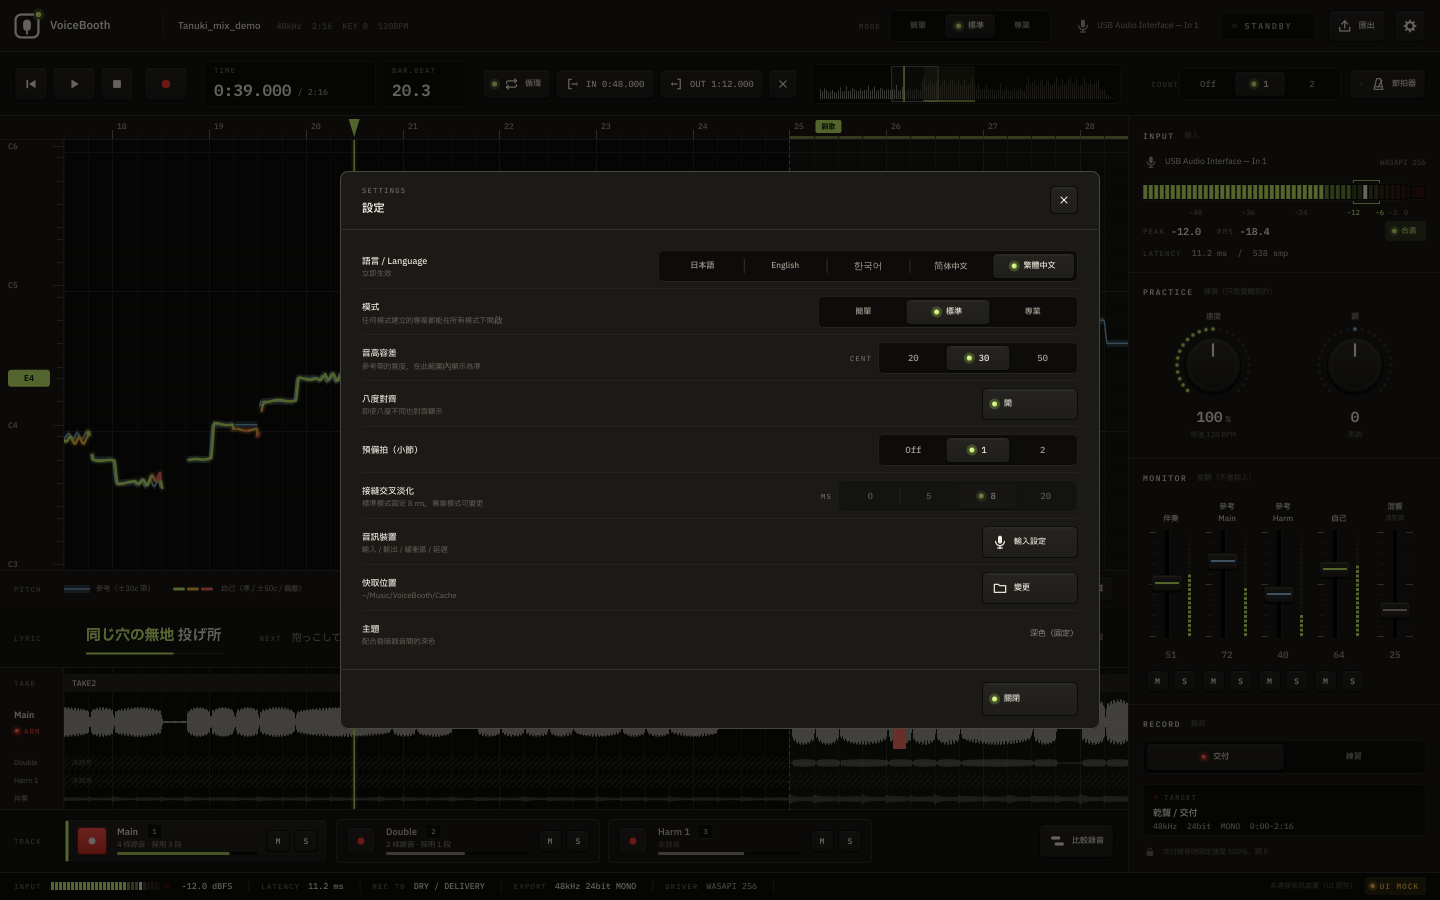
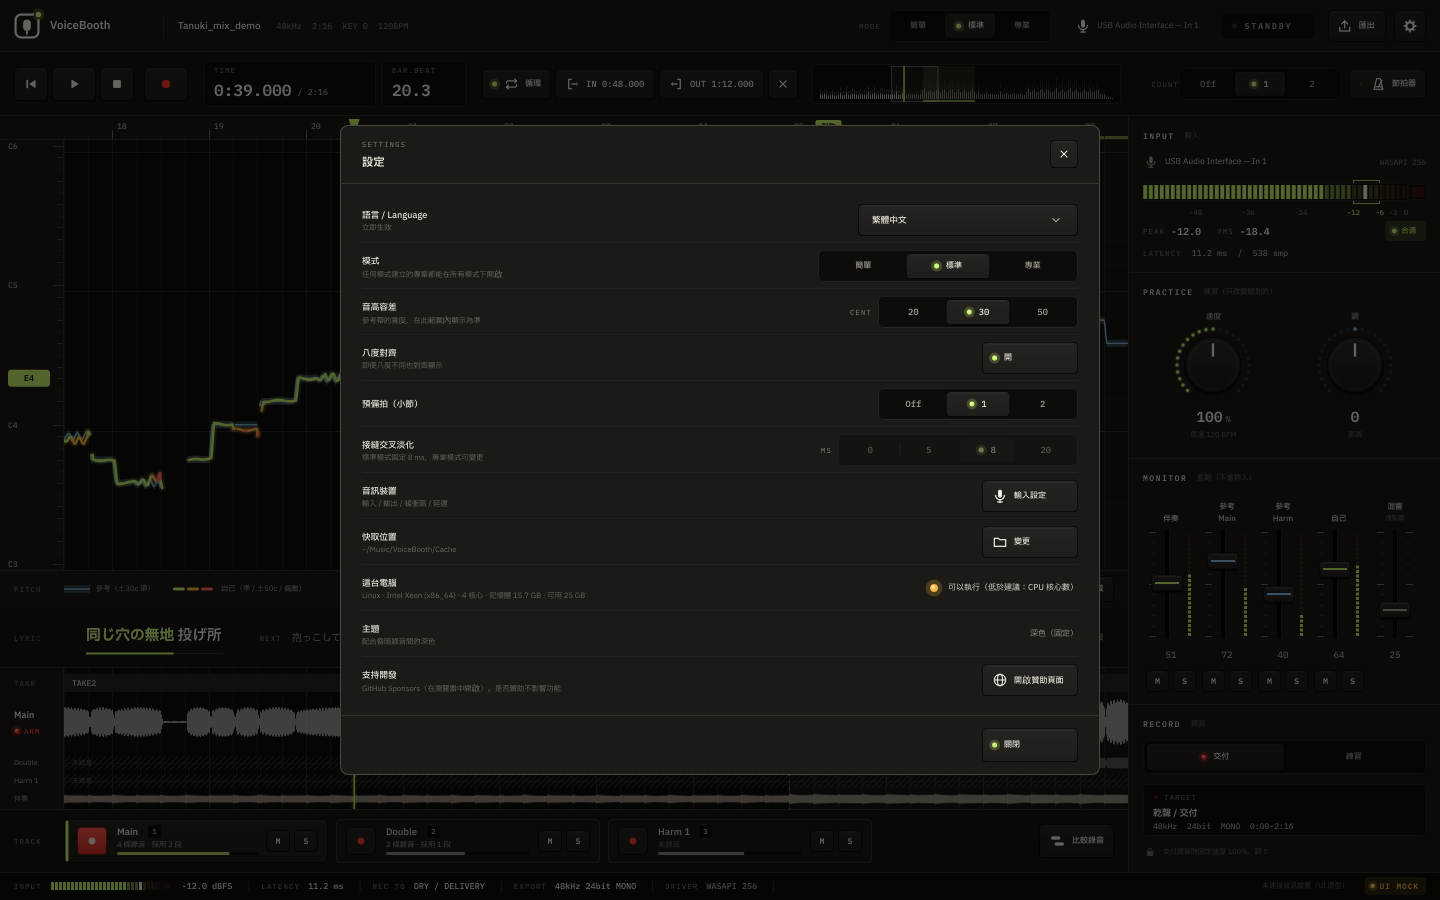
設定に「このパソコン」と「開発を支援する」
- このパソコン：OS・CPU（アーキテクチャ）・物理コア・メモリ・空き容量を出し、動作環境（DESIGN 11.6.1）と比べて
  推奨を満たす / 推奨未満 / 最低未満を LED で示す（止めずに知らせるだけ）。判定は app/system/SystemCheck（テスト付き）
- 開発を支援する：GitHub Sponsors をブラウザで開く（DESIGN 19。寄付で機能は変えない）
- 5 言語の文言 14 件、設定のスクリーンショット（English / 繁體中文）を更新

Claude-Session: https://claude.ai/code/session_01FdsD4wE6vRpEUc6Ek7dUHG

diff --git a/app/ui/screens/SettingsDialog.cpp b/app/ui/screens/SettingsDialog.cpp
@@ -14,6 +14,27 @@ namespace
         return a;
     }
 
+    /** 「このパソコン」の 1 行目：OS · CPU · コア · メモリ · 空き（DESIGN 11.6.1） */
+    juce::String systemSummary (const system::Info& i)
+    {
+        juce::StringArray parts { i.osName, i.cpuModel + " (" + i.architecture + ")",
+                                  tr ("settings.system.cores").replace ("{0}", juce::String (i.physicalCores)),
+                                  tr ("settings.system.memory").replace ("{0}", juce::String ((double) i.memoryMB / 1024.0, 1)) };
+        if (i.freeDiskMB >= 0)
+            parts.add (tr ("settings.system.disk").replace ("{0}", juce::String (i.freeDiskMB / 1024)));
+        return parts.joinIntoString (utf8 (" \xc2\xb7 "));
+    }
+
+    juce::String itemNames (const juce::Array<system::Item>& items)
+    {
+        juce::StringArray names;
+        for (auto item : items)
+            names.add (tr (item == system::Item::cores  ? "settings.system.item.cores"
+                         : item == system::Item::memory ? "settings.system.item.memory"
+                                                        : "settings.system.item.disk"));
+        return names.joinIntoString (tr ("settings.system.sep"));
+    }
+
     int languageIndex (i18n::Language lang)
     {
         const auto& list = i18n::available();
@@ -33,7 +54,9 @@ SettingsDialog::SettingsDialog (UiSession& u)
       crossfade ({ "0", "5", "8", "20" }, 2),
       octaveAlign (tr ("pitch.octaveAlign")),
       openSetup (tr ("settings.device.open")),
-      cacheKey (tr ("settings.cache.change"))
+      cacheKey (tr ("settings.cache.change")),
+      supportKey (tr ("settings.support.open")),
+      systemInfo (system::gather (juce::File::getSpecialLocation (juce::File::userMusicDirectory).getChildFile ("VoiceBooth")))
 {
     language.onChange = [this] (int i) { if (onLanguage) onLanguage (i18n::available()[(size_t) i].id); };
     mode.onChange = [this] (int i) { session.setMode ((project::Mode) i); };
@@ -45,6 +68,28 @@ SettingsDialog::SettingsDialog (UiSession& u)
     openSetup.withIcon (Icon::mic);
     openSetup.onClick = [this] { if (onOpenSetup) onOpenSetup(); };
     cacheKey.withIcon (Icon::folder);
+    supportKey.withIcon (Icon::globe);
+    supportKey.onClick = [] { juce::URL ("https://github.com/sponsors/kajisho5").launchInDefaultBrowser(); };
+
+    // このパソコンが動作環境を満たすか（DESIGN 11.6.1）。足りなくても止めない、知らせるだけ
+    const auto verdict = system::evaluate (systemInfo);
+    juce::String systemValue;
+    juce::Colour systemLed;
+    switch (verdict.level)
+    {
+        case system::Level::ok:
+            systemValue = tr ("settings.system.ok");
+            systemLed = colours::signal;
+            break;
+        case system::Level::belowRecommended:
+            systemValue = tr ("settings.system.belowRec").replace ("{0}", itemNames (verdict.belowRecommended));
+            systemLed = colours::warn;
+            break;
+        case system::Level::belowMinimum:
+            systemValue = tr ("settings.system.belowMin").replace ("{0}", itemNames (verdict.belowMinimum));
+            systemLed = colours::bad;
+            break;
+    }
 
     for (auto* s : { &tolerance, &countIn, &crossfade })
         s->setFont (mono (11.5f, Weight::medium));
@@ -58,7 +103,9 @@ SettingsDialog::SettingsDialog (UiSession& u)
         { tr ("settings.crossfade"),  tr ("settings.crossfade.note"),  &crossfade,   240 },
         { tr ("settings.device"),     tr ("settings.device.note"),     &openSetup,   0 },
         { tr ("settings.cache"),      utf8 ("~/Music/VoiceBooth/Cache"), &cacheKey,  0 },
-        { tr ("settings.theme"),      tr ("settings.theme.note"),      nullptr,      0 },
+        { tr ("settings.system"),     systemSummary (systemInfo),      nullptr,      330, systemValue, systemLed },
+        { tr ("settings.theme"),      tr ("settings.theme.note"),      nullptr,      0,   tr ("settings.theme.value") },
+        { tr ("settings.support"),    tr ("settings.support.note"),    &supportKey,  0 },
     };
 
     for (auto& r : rows)
@@ -129,11 +176,15 @@ void SettingsDialog::paintBody (juce::Graphics& g, juce::Rectangle<int>)
             g.drawText (rows[i].note, text, juce::Justification::topLeft, true);
         }
 
-        if (rows[i].control == nullptr)
+        if (rows[i].control == nullptr && rows[i].value.isNotEmpty())
         {
-            g.setColour (colours::textDim);
+            auto v = a.removeFromRight ((float) juce::jmax (260, rows[i].controlWidth));
             g.setFont (sans (12.0f));
-            g.drawText (tr ("settings.theme.value"), a.removeFromRight (260.0f), juce::Justification::centredRight, false);
+            const auto textW = juce::jmin (v.getWidth() - 18.0f, textWidth (g.getCurrentFont(), rows[i].value) + 2.0f);
+            if (! rows[i].led.isTransparent())
+                paint::led (g, { v.getRight() - textW - 12.0f, v.getCentreY() }, 4.0f, rows[i].led, true);
+            g.setColour (rows[i].led.isTransparent() ? colours::textDim : colours::text);
+            g.drawText (rows[i].value, v, juce::Justification::centredRight, true);
         }
     }
 

diff --git a/tests/SystemCheckTests.cpp b/tests/SystemCheckTests.cpp
@@ -1,0 +1,57 @@
+#include "system/SystemCheck.h"
+
+namespace vb::system
+{
+class SystemCheckTests : public juce::UnitTest
+{
+public:
+    SystemCheckTests() : juce::UnitTest ("SystemCheck", "VoiceBooth") {}
+
+    void runTest() override
+    {
+        beginTest ("CPU names are shortened");
+        {
+            expectEquals (shortCpuName ("Intel(R) Core(TM) i5-8250U CPU @ 1.60GHz"), juce::String ("Intel Core i5-8250U"));
+            expectEquals (shortCpuName ("AMD Ryzen 5 5600X 6-Core Processor"), juce::String ("AMD Ryzen 5 5600X 6-Core"));
+            expectEquals (shortCpuName ("AMD Ryzen 7 7840U w/ Radeon 780M Graphics"), juce::String ("AMD Ryzen 7 7840U w/ Radeon 780M Graphics"));
+            expectEquals (shortCpuName ("AMD Ryzen 5 4500U with Radeon Graphics"), juce::String ("AMD Ryzen 5 4500U"));
+            expectEquals (shortCpuName ("Apple M2"), juce::String ("Apple M2"));
+        }
+
+        beginTest ("thresholds follow DESIGN 11.6.1");
+        {
+            Info rec { "macOS", "Apple M2", "arm64", 8, 16384, 200 * 1024 };
+            expect (evaluate (rec).level == Level::ok);
+
+            Info eightGb { "Windows 11", "Intel Core i5-8250U", "x86_64", 4, 7900, 50 * 1024 };   // 8 GB 機は 7.9 GB と出る
+            const auto v = evaluate (eightGb);
+            expect (v.level == Level::belowRecommended);
+            expect (v.belowMinimum.isEmpty());
+            expect (v.belowRecommended.contains (Item::cores) && v.belowRecommended.contains (Item::memory));
+            expect (! v.belowRecommended.contains (Item::disk));
+
+            Info old { "Windows 10", "Intel Core i3", "x86_64", 2, 4096, 1500 };
+            const auto o = evaluate (old);
+            expect (o.level == Level::belowMinimum);
+            expectEquals (o.belowMinimum.size(), 3);
+
+            Info unknownDisk { "Linux", "x", "x86_64", 8, 32768, -1 };
+            expect (evaluate (unknownDisk).level == Level::ok);   // 分からない項目は判定しない
+        }
+
+        beginTest ("gather returns sane values on this machine");
+        {
+            const auto i = gather (juce::File::getSpecialLocation (juce::File::tempDirectory).getChildFile ("vb-not-created/x"));
+            expect (i.osName.isNotEmpty());
+            expect (i.physicalCores >= 1);
+            expect (i.memoryMB > 256);
+            expect (i.freeDiskMB >= 0);   // 無い場所は親をたどって調べる
+            logMessage ("  this machine: " + i.osName + " / " + i.cpuModel + " / " + i.architecture + " / "
+                        + juce::String (i.physicalCores) + " cores / " + juce::String (i.memoryMB) + " MB / free "
+                        + juce::String (i.freeDiskMB) + " MB");
+        }
+    }
+};
+
+static SystemCheckTests systemCheckTests;
+} // namespace vb::system

diff --git a/app/system/SystemCheck.cpp b/app/system/SystemCheck.cpp
@@ -1,0 +1,59 @@
+#include "SystemCheck.h"
+
+namespace vb::system
+{
+juce::String shortCpuName (juce::String s)
+{
+    for (auto* noise : { "(R)", "(r)", "(TM)", "(tm)", " CPU", " Processor", " processor" })
+        s = s.replace (noise, "");
+    s = s.upToFirstOccurrenceOf ("@", false, false);
+    // "with Radeon Graphics" などの後ろ書きを落とす
+    s = s.upToFirstOccurrenceOf (" with ", false, true);
+    while (s.contains ("  "))
+        s = s.replace ("  ", " ");
+    return s.trim();
+}
+
+Info gather (const juce::File& disk)
+{
+    Info i;
+    i.osName = juce::SystemStats::getOperatingSystemName();
+    i.cpuModel = shortCpuName (juce::SystemStats::getCpuModel());
+    if (i.cpuModel.isEmpty())
+        i.cpuModel = juce::SystemStats::getCpuVendor();
+   #if JUCE_ARM
+    i.architecture = "arm64";
+   #else
+    i.architecture = "x86_64";
+   #endif
+    i.physicalCores = juce::SystemStats::getNumPhysicalCpus();
+    i.memoryMB = juce::SystemStats::getMemorySizeInMegabytes();
+
+    auto dir = disk;
+    while (dir != juce::File() && ! dir.exists())
+        dir = dir.getParentDirectory();
+    if (dir.exists())
+        i.freeDiskMB = dir.getBytesFreeOnVolume() / (1024 * 1024);
+    return i;
+}
+
+Verdict evaluate (const Info& i, const Requirements& r)
+{
+    Verdict v;
+    auto check = [&] (Item item, juce::int64 value, juce::int64 min, juce::int64 rec)
+    {
+        if (value < 0)
+            return;   // 分からないものは判定しない
+        if (value < min)      v.belowMinimum.add (item);
+        else if (value < rec) v.belowRecommended.add (item);
+    };
+    check (Item::cores, i.physicalCores, r.minCores, r.recCores);
+    check (Item::memory, i.memoryMB, r.minMemoryMB, r.recMemoryMB);
+    check (Item::disk, i.freeDiskMB, r.minFreeDiskMB, r.recFreeDiskMB);
+
+    v.level = ! v.belowMinimum.isEmpty() ? Level::belowMinimum
+            : ! v.belowRecommended.isEmpty() ? Level::belowRecommended
+            : Level::ok;
+    return v;
+}
+} // namespace vb::system

diff --git a/app/system/SystemCheck.h b/app/system/SystemCheck.h
@@ -1,0 +1,45 @@
+#pragma once
+
+#include <juce_core/juce_core.h>
+
+/*  このパソコンが動作環境（DESIGN 11.6.1）を満たすか。設定画面の「このパソコン」に出す
+    数値は暫定（B8 / B16 で実測して確定）。OS の下限はビルドで決まる（Win 10 1607 / macOS 11）ので、ここでは見ない */
+
+namespace vb::system
+{
+struct Requirements
+{
+    // メモリは「8 GB の機械」が OS の予約分で 7.8 GB などと出るので、少し下に線を引く
+    juce::int64 minMemoryMB = 7500, recMemoryMB = 15000;
+    int minCores = 4, recCores = 6;                            // 物理コア
+    juce::int64 minFreeDiskMB = 2 * 1024, recFreeDiskMB = 10 * 1024;
+};
+
+struct Info
+{
+    juce::String osName;
+    juce::String cpuModel;       // 短くした名前（"Intel Core i5-8250U" など）
+    juce::String architecture;   // "arm64" / "x86_64"
+    int physicalCores = 0;
+    juce::int64 memoryMB = 0;
+    juce::int64 freeDiskMB = -1; // 分からなければ負
+};
+
+enum class Level { ok, belowRecommended, belowMinimum };
+
+enum class Item { cores, memory, disk };
+
+struct Verdict
+{
+    Level level = Level::ok;
+    juce::Array<Item> belowMinimum, belowRecommended;
+};
+
+/** いまのパソコンを調べる（速い。メッセージスレッドから呼んでよい）。disk は空き容量を見る場所 */
+Info gather (const juce::File& disk);
+
+Verdict evaluate (const Info&, const Requirements& = {});
+
+/** "Intel(R) Core(TM) i5-8250U CPU @ 1.60GHz" → "Intel Core i5-8250U" */
+juce::String shortCpuName (juce::String);
+} // namespace vb::system

diff --git a/app/ui/screens/SettingsDialog.h b/app/ui/screens/SettingsDialog.h
@@ -3,6 +3,7 @@
 #include "../Overlay.h"
 #include "../UiSession.h"
 #include "../parts/Dropdown.h"
+#include "../../system/SystemCheck.h"
 
 namespace vb
 {
@@ -22,11 +23,13 @@ protected:
 private:
     void onSessionChanged (juce::uint32) override;
 
-    struct Row { juce::String label, note; juce::Component* control; int controlWidth; };
+    // control が無い行は value（と LED）を右に描く
+    struct Row { juce::String label, note; juce::Component* control; int controlWidth; juce::String value = {}; juce::Colour led = {}; };
 
     Dropdown language;
     SegmentedKeys mode, tolerance, countIn, crossfade;
-    KeyButton octaveAlign, openSetup, cacheKey;
+    KeyButton octaveAlign, openSetup, cacheKey, supportKey;
+    system::Info systemInfo;
     std::vector<Row> rows;
     std::vector<juce::Rectangle<int>> rowAreas;
 };
